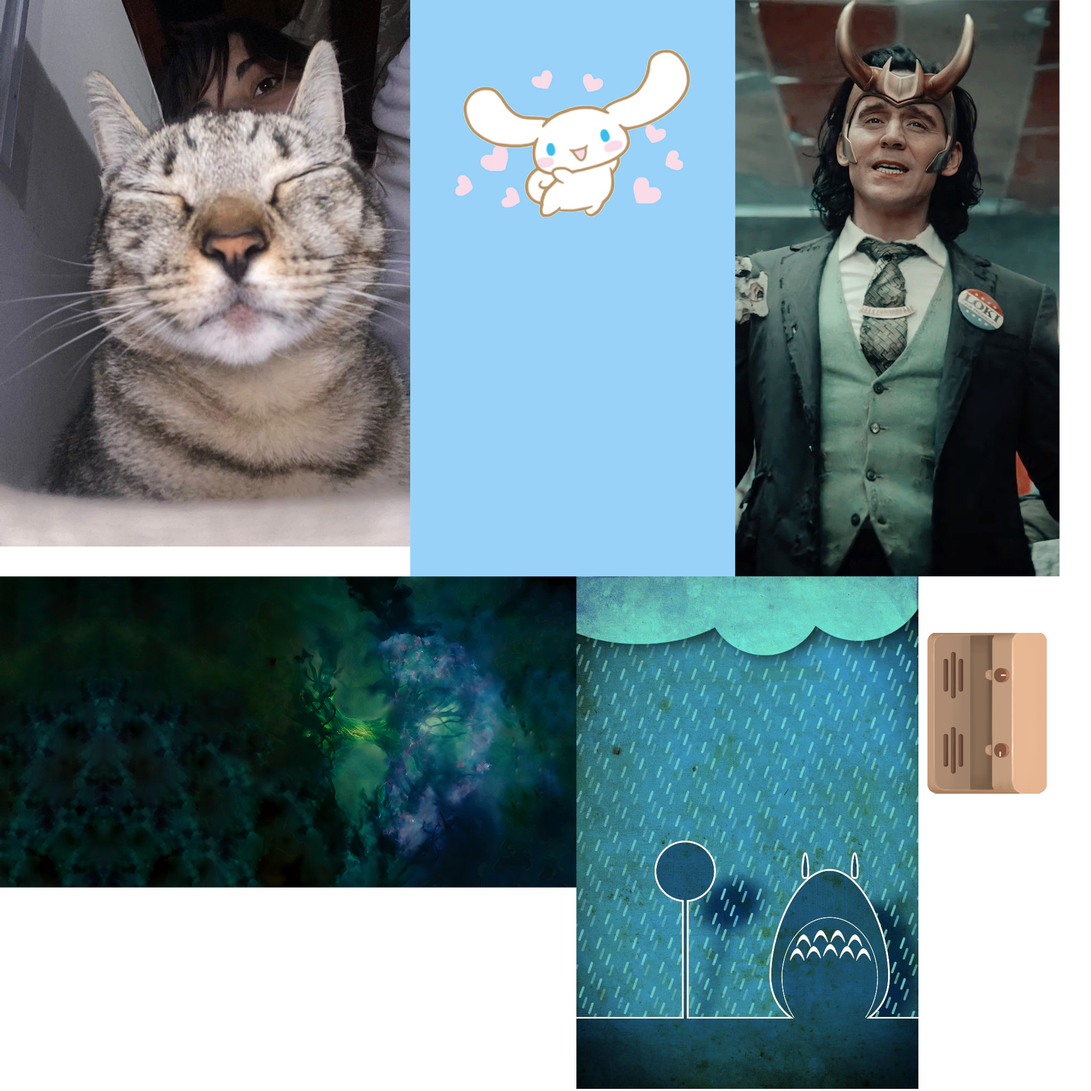
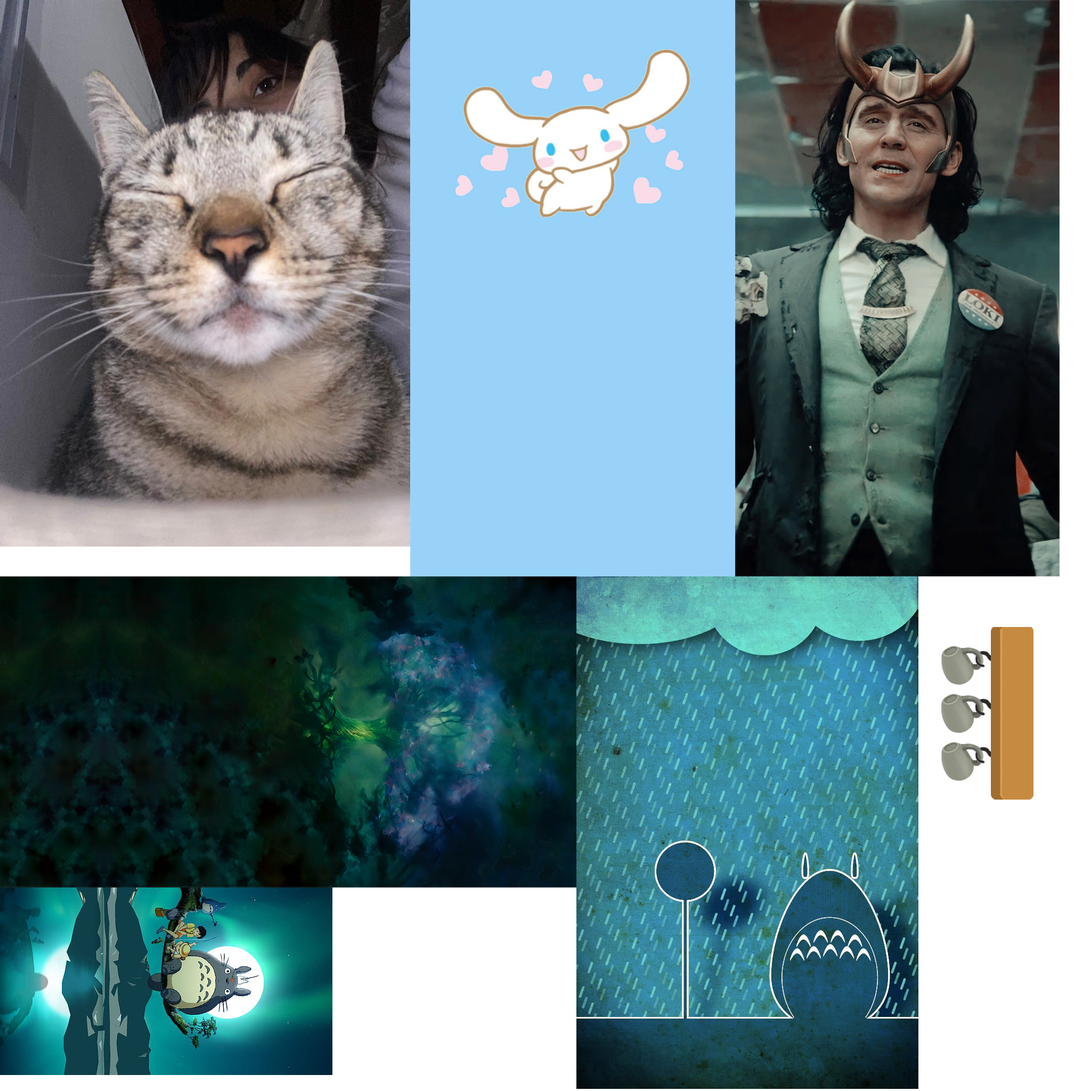
a

Changed region(s): [[0.0, 0.8125, 0.3125, 1.0], [0.8438, 0.5625, 0.9688, 0.75]]

diff --git a/scripts/objRefTable.js b/scripts/objRefTable.js
@@ -126,11 +126,31 @@ self.C3_JsPropNameTable = [
 	{CafeFloor: 0},
 	{Sprite: 0},
 	{T_Prop_Coffee_Machine: 0},
+	{T_Blue_Wall_Middle: 0},
+	{T_Blue_Wall_Top: 0},
+	{T_Shelf: 0},
+	{T_Shelf_Mugs: 0},
+	{T_Prop_Plate_: 0},
+	{T_Prop_Plate_Small: 0},
+	{T_Desert_Cheesecake_Stand: 0},
+	{T_Desert_DesertBox: 0},
+	{T_Desert_Chocolate_Balls_: 0},
+	{xOriginal: 0},
+	{yOriginal: 0},
+	{T_Prop_Cattle_: 0},
+	{T_Prop_Marmelade_Purple: 0},
+	{T_Prop_Marmelade_Red: 0},
+	{T_Prop_Marmelade_Yellow: 0},
+	{T_Prop_Marmelade_Orange: 0},
+	{T_Prop_Coffee_Beans_: 0},
+	{T_Prop_Coffee_Beans_2: 0},
+	{T_Plant_: 0},
 	{ArrastrarYSoltar: 0},
 	{Clothes: 0},
 	{Tweeninterpolación: 0},
 	{Buttons: 0},
 	{Backgrounds: 0},
+	{UniqueElements: 0},
 	{Background: 0},
 	{MusicOn: 0}
 ];
@@ -215,7 +235,25 @@ self.InstanceType = {
 	CafeFloor: class extends self.ISpriteInstance {},
 	Sprite: class extends self.ISpriteInstance {},
 	T_Prop_Coffee_Machine: class extends self.ISpriteInstance {},
+	T_Blue_Wall_Middle: class extends self.ISpriteInstance {},
+	T_Blue_Wall_Top: class extends self.ISpriteInstance {},
+	T_Shelf: class extends self.ISpriteInstance {},
+	T_Shelf_Mugs: class extends self.ISpriteInstance {},
+	T_Prop_Plate_: class extends self.ISpriteInstance {},
+	T_Prop_Plate_Small: class extends self.ISpriteInstance {},
+	T_Desert_Cheesecake_Stand: class extends self.ISpriteInstance {},
+	T_Desert_DesertBox: class extends self.ISpriteInstance {},
+	T_Desert_Chocolate_Balls_: class extends self.ISpriteInstance {},
+	T_Prop_Cattle_: class extends self.ISpriteInstance {},
+	T_Prop_Marmelade_Purple: class extends self.ISpriteInstance {},
+	T_Prop_Marmelade_Red: class extends self.ISpriteInstance {},
+	T_Prop_Marmelade_Yellow: class extends self.ISpriteInstance {},
+	T_Prop_Marmelade_Orange: class extends self.ISpriteInstance {},
+	T_Prop_Coffee_Beans_: class extends self.ISpriteInstance {},
+	T_Prop_Coffee_Beans_2: class extends self.ISpriteInstance {},
+	T_Plant_: class extends self.ISpriteInstance {},
 	Clothes: class extends self.ISpriteInstance {},
 	Buttons: class extends self.ISpriteInstance {},
-	Backgrounds: class extends self.ISpriteInstance {}
+	Backgrounds: class extends self.ISpriteInstance {},
+	UniqueElements: class extends self.ISpriteInstance {}
 }
